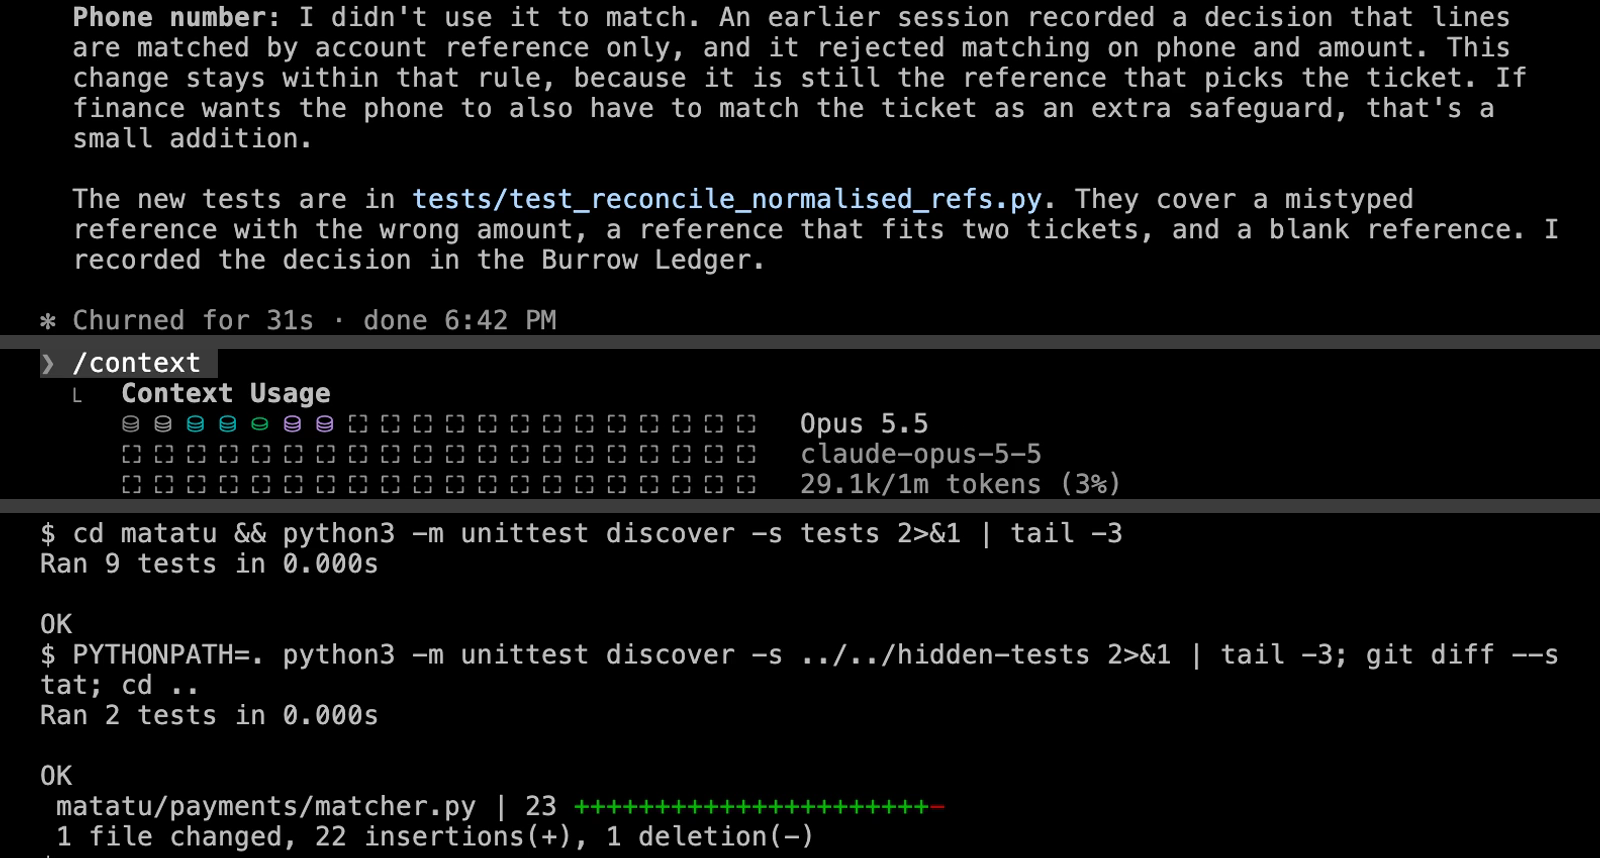
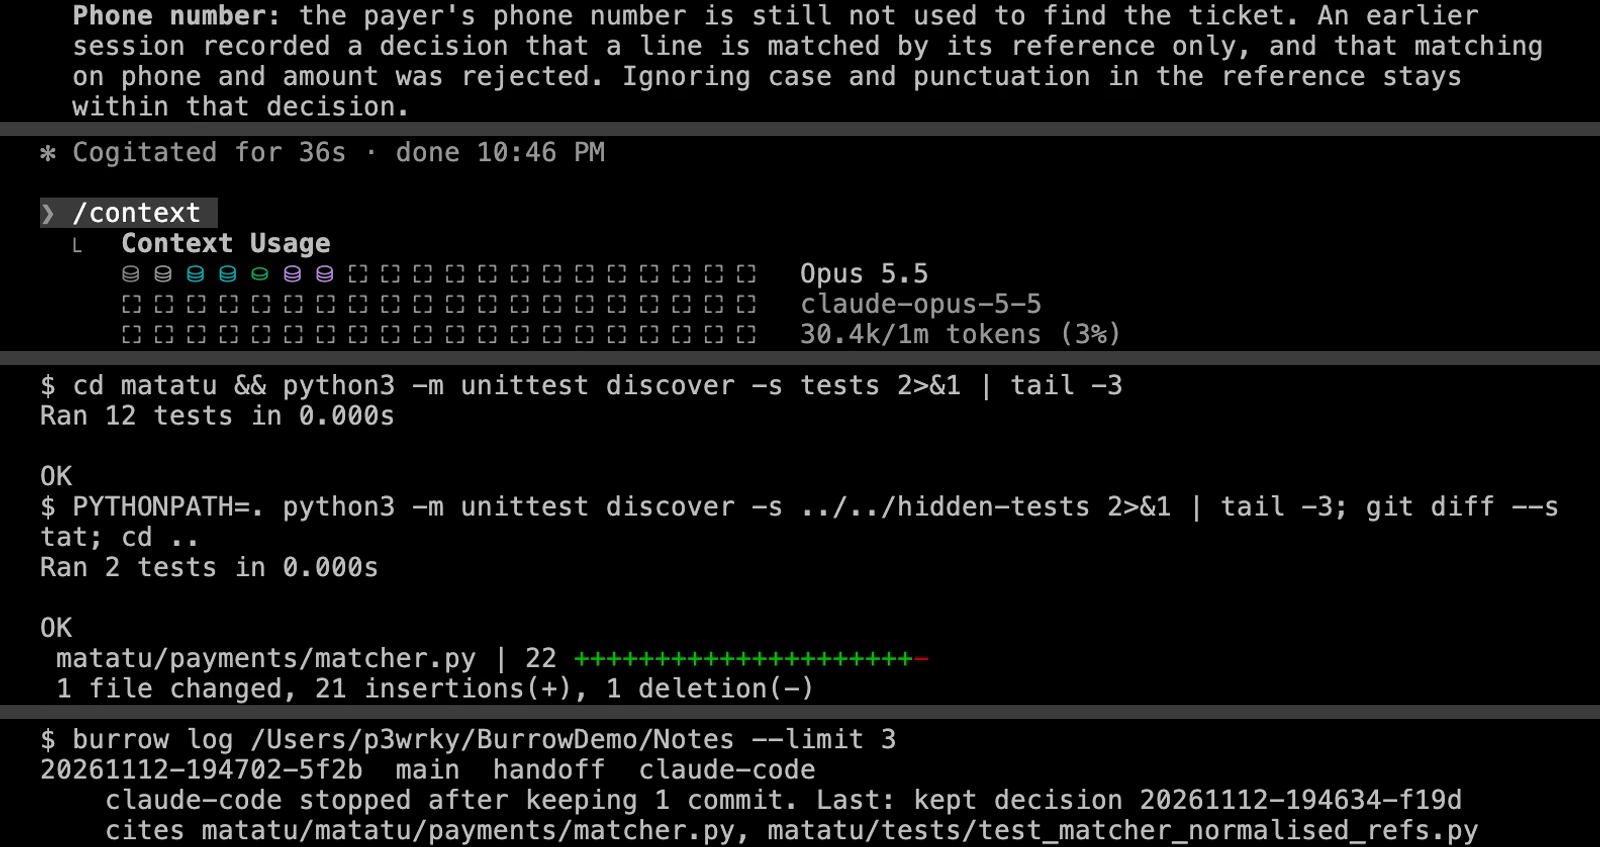
Demonstration clip 08c, take 4: Burrow's handoff now written when Claude Code exits; still and notes updated

Changed region(s): [[0.0, 0.0, 1.0, 0.6753], [0.0, 0.706, 1.0, 1.0]]

diff --git a/docs/demo/README.md b/docs/demo/README.md
@@ -13,7 +13,7 @@ Nothing is staged: the models answered live, and every number on screen was meas
 | 06-weaknesses-burrow-covers.mp4 | Reasoning: plain retrieval makes Gemma refuse a sum, the engine leaves the vault out and gets 756. Hallucination: Ugandan law, "I don't know from what you were shown". Stale memory: the cited Act is edited and the Ledger says check again | 60 s | `vhs tapes/06-weaknesses.tape` |
 | 07-llama-session-cached.mp4 | llama.cpp's own chat page with Burrow as its MCP server, Qwen3 4B: it fetches the 72-hour rule (section 43(1)(a), line 133), answers the follow-up from what is still in its working memory, and keeps a decision in the Ledger | 74 s | `tapes/07-llama-cached.sh`: a fresh llama-server (`-np 2`, q8_0 caches, temperature 0, seed 7) with `--mcp-servers-config`, the page driven headless by Playwright |
 | 08-coding-session.mp4 | A two-session coding week on the Matatu project, Gemma 4 12B in OpenCode with Burrow holding the code. Session 1 fixes unknown references and keeps the finance meeting's decision in the Ledger; session 2, fresh, gets a task that tempts it to undo that decision. It calls `burrow_resume` and gets the decision back, then matches on phone and amount anyway: the task's tests pass 6 of 6, the decision's hidden tests fail 2 of 2 | 18 min 33 s (session 2 runs 15 min, five compactions at a 32k window) | `tapes/08-coding-session.sh`: setup, then `08a` and `08b` recorded apart and joined |
-| 08c-claude-session.mp4 | Session 2 of clip 08 again, Claude Code (Opus 5.5) in place of Gemma: same vault, same code after session 1, same task and the coder agent's instructions word for word, Burrow its only MCP server. It calls `burrow_resume`, reads the decision, and matches mistyped references by the reference alone (case, spaces and punctuation ignored, one ticket or suspense); task tests 9 of 9 (3 its own), hidden decision tests 2 of 2, decision kept in the Ledger | 1 min 56 s (the turn: 31 s) | `tapes/08c-claude-session.sh`, after `08-coding-session.sh`; Claude Code full-screen, in a clean environment, none of the user's settings, plugins or CLAUDE.md |
+| 08c-claude-session.mp4 | Session 2 of clip 08 again, Claude Code (Opus 5.5) in place of Gemma: same vault, same code after session 1, same task and the coder agent's instructions word for word, Burrow its only MCP server. It calls `burrow_resume`, says the earlier decision rules out the phone, and matches mistyped references by the reference alone (case, spaces and punctuation ignored, one ticket or suspense); task tests 12 of 12 (6 its own), hidden decision tests 2 of 2; the decision and, on `/exit`, Burrow's handoff are in the Ledger | 2 min 1 s (the turn: 36 s) | `tapes/08c-claude-session.sh`, after `08-coding-session.sh`; Claude Code full-screen, in a clean environment, none of the user's settings, plugins or CLAUDE.md |
 
 The clips are kept out of git (see `.gitignore`); the tapes re-record them. The demo vault lives in `~/BurrowDemo/Notes`.
 
@@ -37,9 +37,10 @@ Note on clip 08: Burrow delivered the decision; Gemma 4 12B did not keep to it. 
 None of its searches named `reconcile.py`, the file the decision cites, because it edited `matcher.py`; so the file match of D-69 never fired.
 
 - `coding-session-claude.png` (clip 08c, 12 November): the same session 2 with Claude Code, for comparison.
-  One `burrow_resume` brought the decision back; it kept to it in 31 s with 29.1k of a 1M window used (3%), and the hidden decision tests passed 2 of 2 (task tests 9 of 9).
+  One `burrow_resume` brought the decision back; it kept to it in 36 s with 30.4k of a 1M window used (3%), the hidden decision tests passed 2 of 2 (task tests 12 of 12), and Burrow wrote the handoff when it exited.
 
-Note on clip 08c: this is the third take; all three kept to the decision. Take 1 lost its video (vhs never saw the turn end); take 2 is
-discarded because Ctrl+C did not close Claude Code, so the closing commands went to the model. Both are in `clips/08c-attempt-{1,2}/`, and their Ledger entries were taken out of the vault before the next take.
-The grey "Add the phone number check too" in the prompt box after the turn is Claude Code's own suggested next prompt; nobody typed it.
+Note on clip 08c: this is the fourth take; all four kept to the decision. Take 1 lost its video (vhs never saw the turn end); in take 2
+Ctrl+C did not close Claude Code, so the closing commands went to the model; take 3 was clean but left no handoff, because Claude Code
+stops its MCP servers with SIGINT and Burrow died before writing it (fixed in D-70). All three are in `clips/08c-attempt-{1,2,3}/`, and their Ledger entries were taken out of the vault before the next take.
+The grey "add the phone check too" in the prompt box after the turn is Claude Code's own suggested next prompt; nobody typed it.
 
